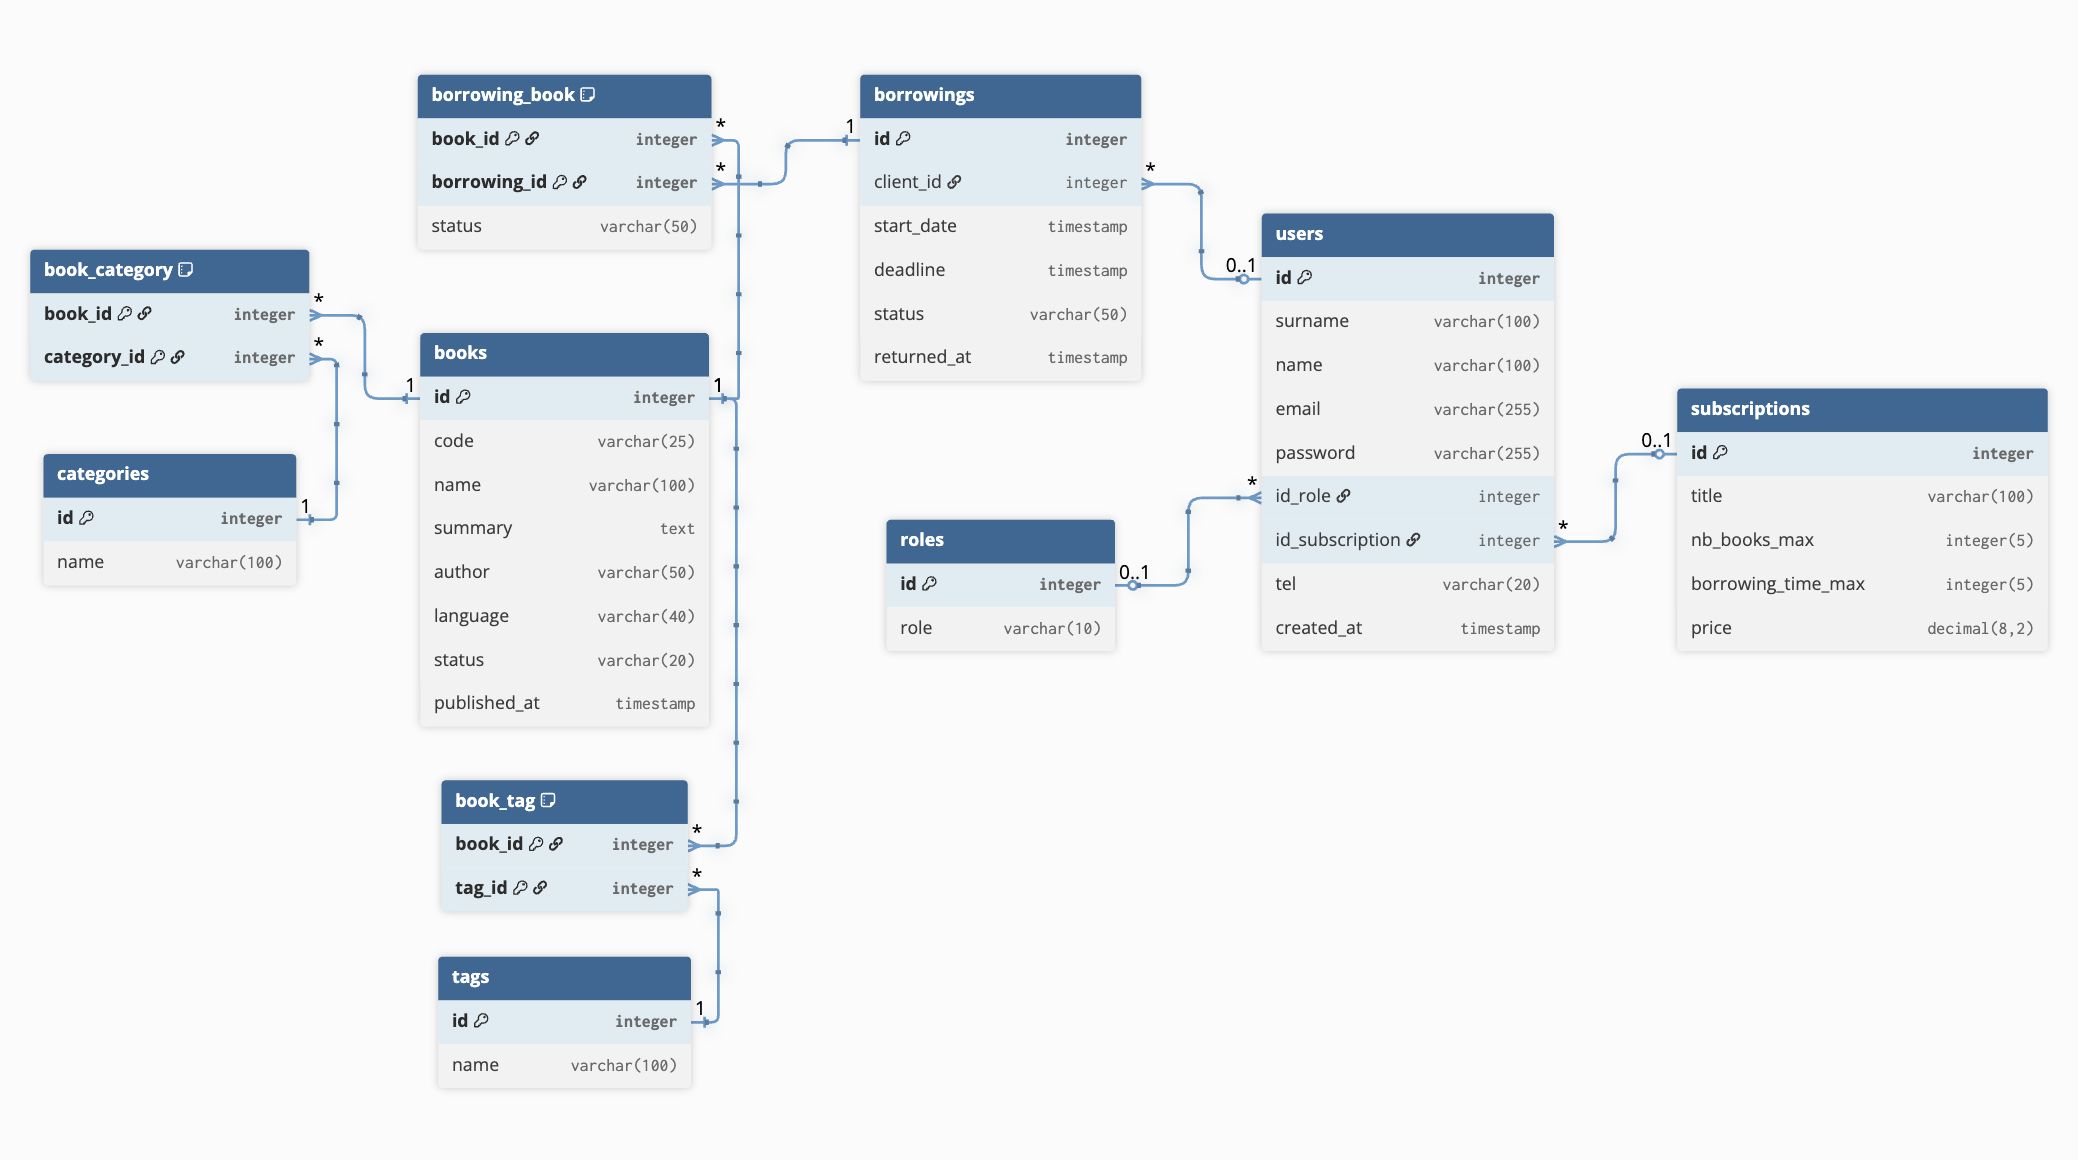
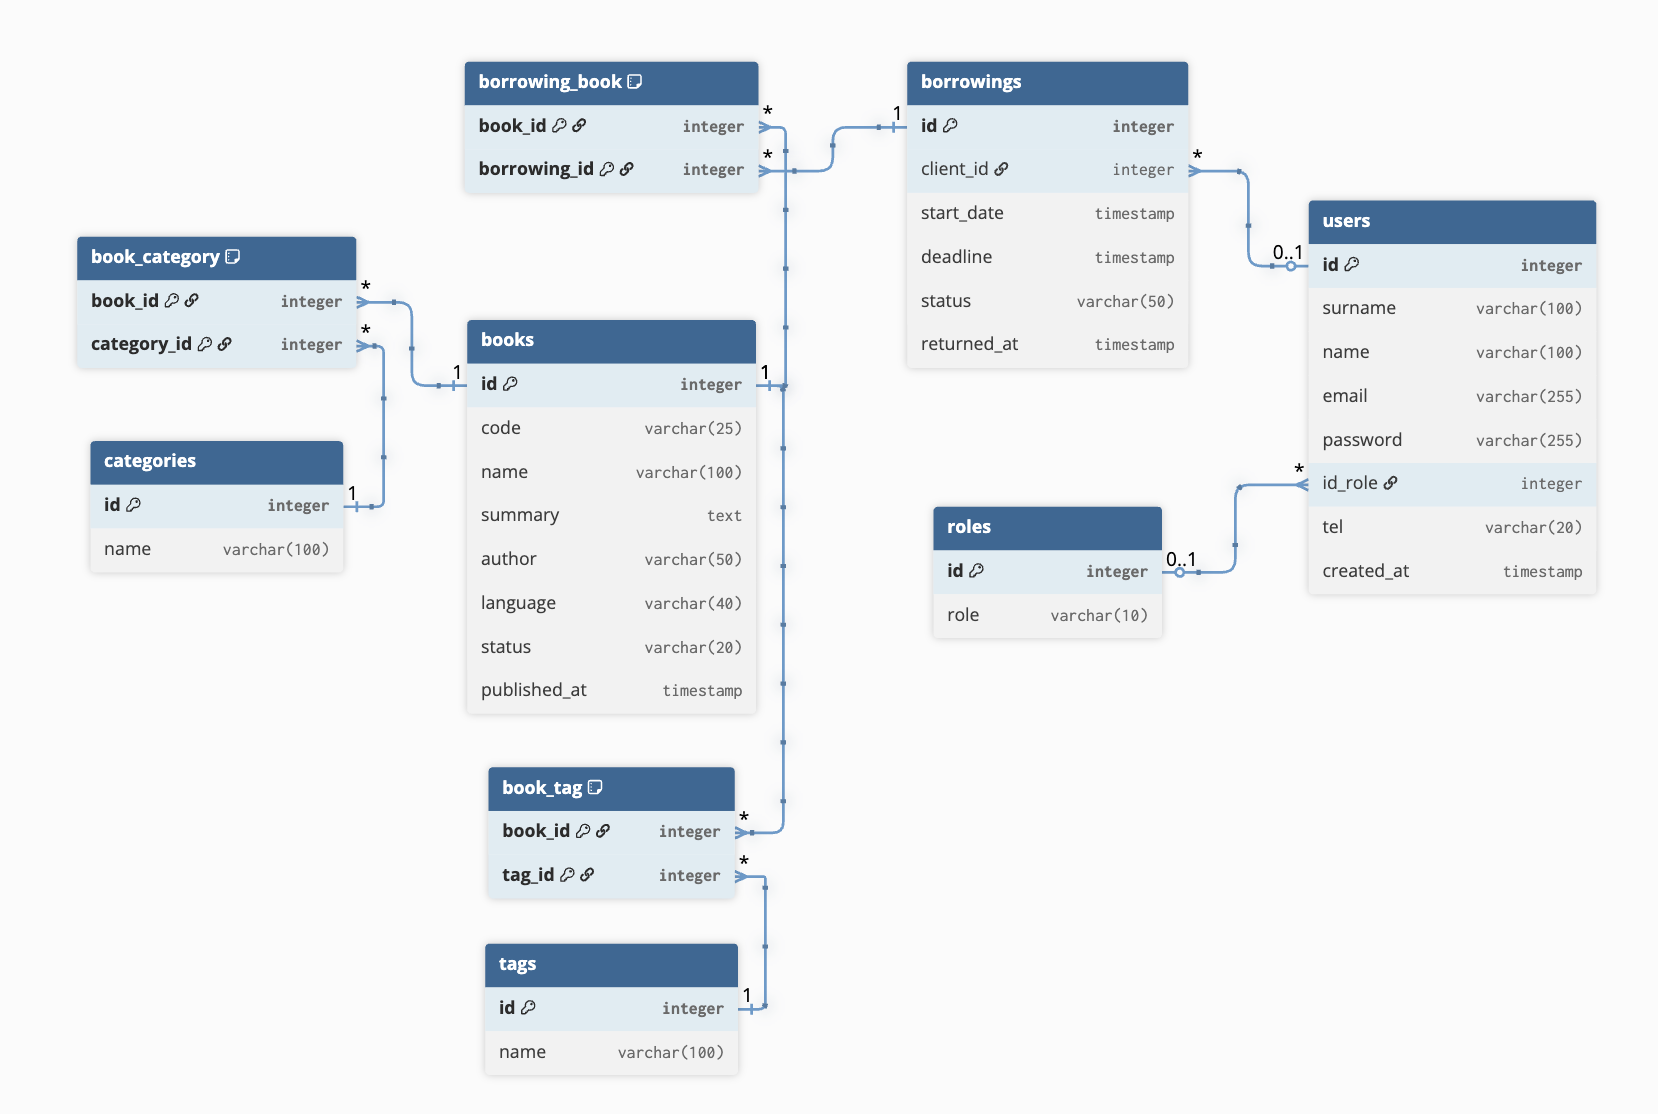
update modelisation : delete subscriptions table

diff --git a/database/migrations/2026_03_09_220638_create_borrowing_book_table.php b/database/migrations/2026_03_09_220638_create_borrowing_book_table.php
@@ -15,7 +15,7 @@ return new class extends Migration
             $table->foreignId('id_book')->references('id')->on('books');
             $table->foreignId('borrowing_id')->references('id')->on('books');
             $table->primary(['id_book', 'borrowing_id']);
-            $table->string('status', 50);
+            // $table->string('status', 50); colonne ajoutée ensuite pour la V2, pour un rendu des livres au compte-goutte
         });
     }
 

diff --git a/database/migrations/0001_01_01_000000_create_users_table.php b/database/migrations/0001_01_01_000000_create_users_table.php
@@ -18,7 +18,6 @@ return new class extends Migration
             $table->string('email');
             $table->string('password');
             $table->foreignID('id_role')->references('id')->on('roles');
-            $table->foreignID('id_subscription')->nullable()->references('id')->on('subscriptions');
             $table->string('tel', 20)->nullable();
             $table->rememberToken();
             $table->timestamps();

diff --git a/app/Models/BorrowingBook.php b/app/Models/BorrowingBook.php
@@ -6,5 +6,5 @@ use Illuminate\Database\Eloquent\Relations\Pivot;
 
 class BorrowingBook extends Pivot
 {
-    //
+    // inutile pour le moment, attendre V2
 }
